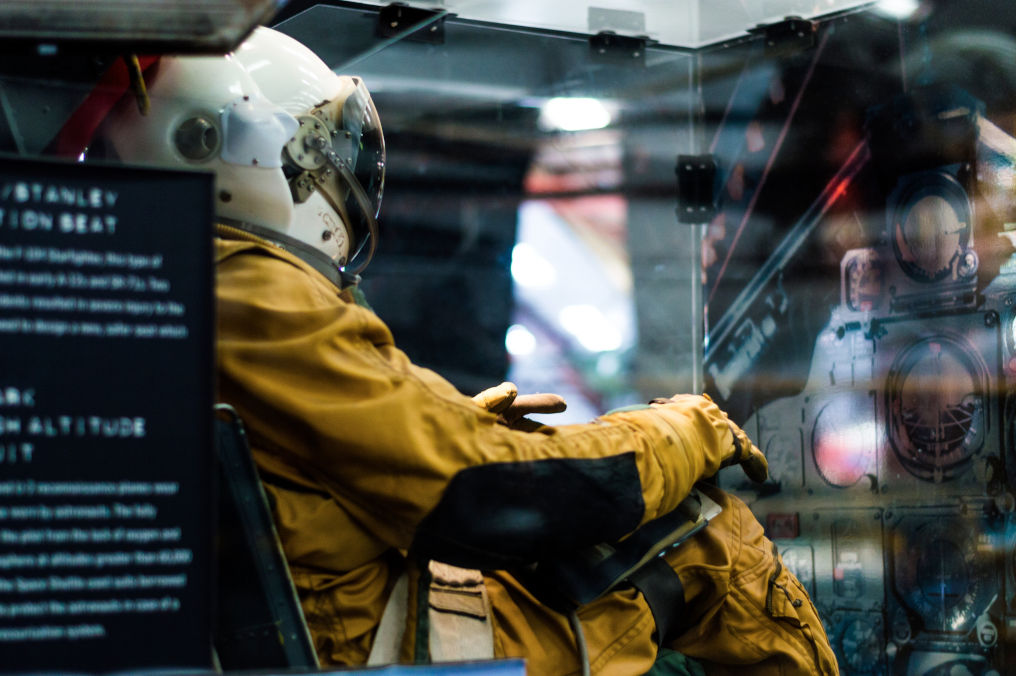
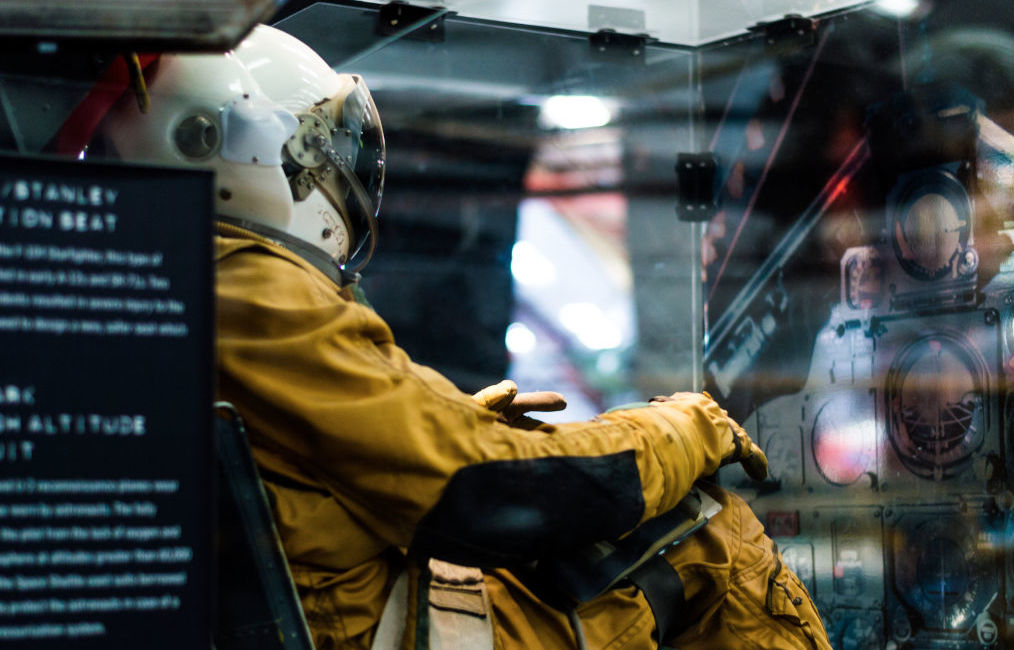
Adjusted images on exhibition and header home page

diff --git a/css/style.css b/css/style.css
@@ -152,7 +152,7 @@ figcaption::before, figcaption::after{
 input[type="text"],
 input[type="email"] {
   margin: 4px 0 7px 0;
-  height: 25px;
+  min-height: 25px;
   border: 1px solid #333;
   outline: none;
   border-radius: 4px;
@@ -160,7 +160,7 @@ input[type="email"] {
 }
 input[type="submit"] {
   width: 75px;
-  height: 25px;
+  min-height: 25px;
   color: #fffefe;
   margin: 10px 0 15px 0;
   border-radius: 4px;
@@ -304,7 +304,7 @@ footer {
     }
     .site-header{    
         flex-direction: row;
-        justify-content: space-around;
+        justify-content: space-between;
     }
     .site-header h1{
         font-size: 1.8rem;
@@ -373,6 +373,7 @@ footer {
         margin: 0 auto;
     }
     .site-header h1{
+        margin-top: 5px;
         font-size: 2rem;
     }
     .navbar{
@@ -394,7 +395,7 @@ footer {
         max-width: 80%;
     }
     .main-content img{
-        max-width: 80%;
+       max-width: 80%;
        margin: 30px 0 10px 0;
     }
     .search {
